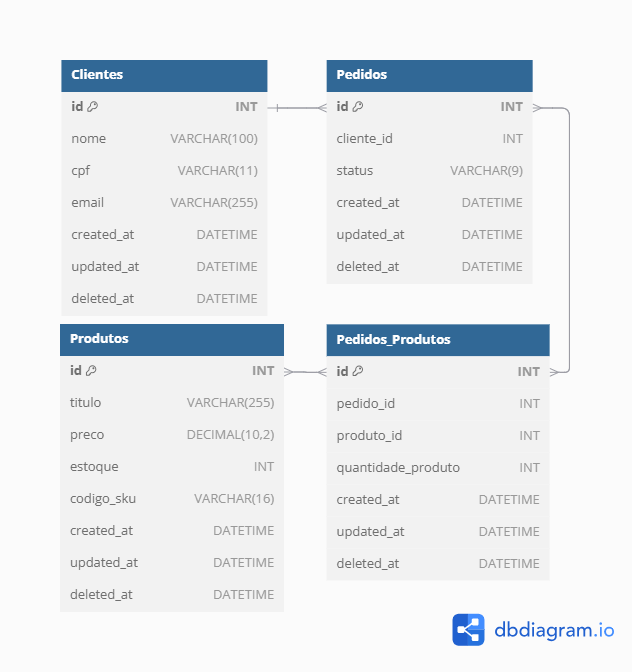
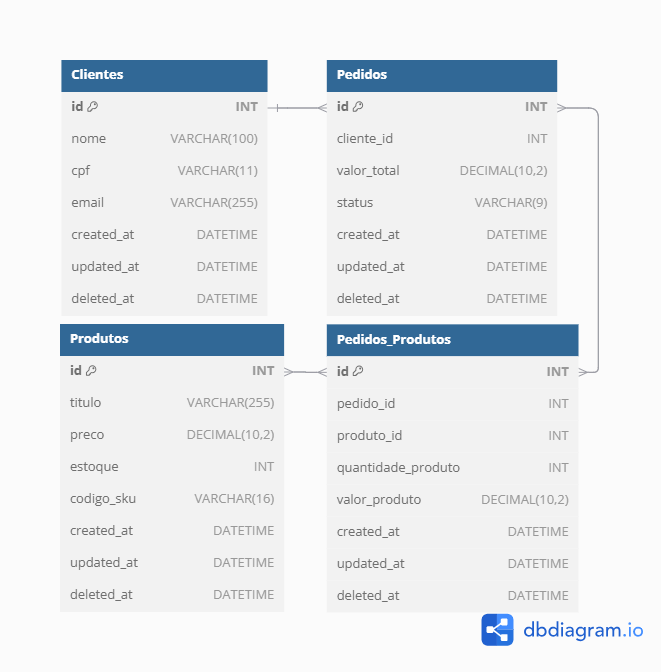
feat: valida o estoque do produto e adiciona valor total ao pedido

diff --git a/app/Http/Controllers/PedidoController.php b/app/Http/Controllers/PedidoController.php
@@ -72,14 +72,45 @@ class PedidoController extends Controller {
 
         $dados = $request->validated();
 
+        // verifica se há estoque suficiente
+        $erroEstoque = $this->verificarEstoqueSuficiente($dados['produtos'], $dados['quantidades']);
+        if ($erroEstoque) {
+            return redirect()->back()->withErrors(['produtos' => $erroEstoque['erro']])->withInput();
+        }
+
+        // cria o pedido
         $pedido = Pedido::create([
             'cliente_id' => $dados['cliente_id'],
-            'status' => $dados['status']
+            'status' => $dados['status'],
+            'valor_total' => 0,
         ]);
 
+        $valorTotal = 0;
         foreach ($dados['produtos'] as $i => $produto_id) {
-            $pedido->produtos()->attach($produto_id, ['quantidade_produto' => $dados['quantidades'][$i]]);
+
+            // calcula o valor total do produto
+            $produto = Produto::find($produto_id);
+            $quantidade = $dados['quantidades'][$i];
+            $valorProduto = $produto->preco * $quantidade;
+
+            // retira a quantidade do estoque
+            $produto->estoque -= $quantidade;
+            $produto->save();
+
+            // adiciona o valor do produto ao valor total
+            $valorTotal+= $valorProduto;
+
+            // adiciona o produto ao pedido
+            $pedido->produtos()->attach(
+                $produto_id, [
+                    'quantidade_produto' => $quantidade,
+                    'valor_produto' => $valorProduto,
+            ]);
         }
+
+        // atualiza o valor total do pedido
+        $pedido->valor_total = $valorTotal;
+        $pedido->save();
 
         return redirect()->route('pedidos.index')->with('sucesso', 'Pedido criado com sucesso!');
     }
@@ -104,16 +135,52 @@ class PedidoController extends Controller {
         $dados = $request->validated();
         $pedido = Pedido::findOrFail($id);
 
+        // devolve o estoque do produto
+        foreach ($pedido->produtos as $produto) {
+
+            $quantidadeAnterior = $produto->pivot->quantidade_produto;
+
+            $produto->estoque += $quantidadeAnterior;
+            $produto->save();
+        }
+
+        // verifica se há estoque suficiente
+        $erroEstoque = $this->verificarEstoqueSuficiente($dados['produtos'], $dados['quantidades']);
+        if ($erroEstoque) {
+            return redirect()->back()->withErrors(['produtos' => $erroEstoque['erro']])->withInput();
+        }
+
         $pedido->update([
             'cliente_id' => $dados['cliente_id'],
             'status' => $dados['status'],
         ]);
 
+        // desanexa os produtos do pedido
         $pedido->produtos()->detach();
 
+        $valorTotal =0;
         foreach ($dados['produtos'] as $i => $produto_id) {
-            $pedido->produtos()->attach($produto_id, ['quantidade_produto' => $dados['quantidades'][$i]]);
+            $produto = Produto::find($produto_id);
+            $quantidade = $dados['quantidades'][$i];
+            $valorProduto = $produto->preco * $quantidade;
+    
+            // retira do estoque a quantidade do produto
+            $produto->estoque -= $quantidade;
+            $produto->save();
+    
+            // adiciona o valor do produto ao valor total
+            $valorTotal += $valorProduto;
+    
+            // adiciona o produto ao pedido
+            $pedido->produtos()->attach($produto_id, [
+                'quantidade_produto' => $quantidade,
+                'valor_produto' => $valorProduto,
+            ]);
         }
+
+        // atualiza o valor total do pedido
+        $pedido->valor_total = $valorTotal;
+        $pedido->save();
 
         return redirect()->route('pedidos.index')->with('sucesso', 'Pedido atualizado com sucesso!');
     }
@@ -122,8 +189,33 @@ class PedidoController extends Controller {
     public function destroy($id): RedirectResponse {
         
         $pedido = Pedido::findOrFail($id);
+
+        // devolve o estoque do produto
+        foreach ($pedido->produtos as $produto) {
+
+            $quantidadeAnterior = $produto->pivot->quantidade_produto;
+
+            $produto->estoque += $quantidadeAnterior;
+            $produto->save();
+        }
+
         $pedido->delete();
 
         return redirect()->route('pedidos.index')->with('sucesso', 'Pedido excluído com sucesso!');
+    }
+
+    private function verificarEstoqueSuficiente(array $produtos, array $quantidades) {
+
+        foreach ($produtos as $i => $produto_id) {
+            
+            $produto = Produto::find($produto_id);
+            $quantidade = $quantidades[$i];
+
+            if ($produto->estoque < $quantidade) {
+                return ['erro' => 'Produto ' . $produto->título . ' não tem estoque suficiente.'];
+            }
+
+            return null;
+        }
     }
 }

diff --git a/resources/views/pedidos/index.blade.php b/resources/views/pedidos/index.blade.php
@@ -80,6 +80,7 @@
             <tr>
                 <th>Código</th>
                 <th>Cliente</th>
+                <th>Valor</th>
                 <th>Status</th>
                 <th>Data</th>
                 <th>Ações</th>
@@ -91,6 +92,7 @@
                 <tr>
                     <td>{{ $pedido->id }}</td>
                     <td><a href="{{ route('clientes.show', $pedido->cliente->id) }}">{{ $pedido->cliente->nome }}</a></td>
+                    <td>{{ $pedido->valor_total }}</td>
                     <td>{{ $pedido->status }}</td>
                     <td>{{ $pedido->created_at }}</td>
                     <td>

diff --git a/resources/views/pedidos/show.blade.php b/resources/views/pedidos/show.blade.php
@@ -9,7 +9,7 @@
     <h3>Produtos:</h3>
     <ul>
         @foreach($pedido->produtos as $produto)
-            <li><a href="{{ route('produtos.show', $produto->id) }}">{{ $produto->titulo }}</a> - Quantidade: {{ $produto->pivot->quantidade_produto }} - R$ {{ number_format($produto->preco, 2, ',', '.') }}</li>
+            <li><a href="{{ route('produtos.show', $produto->id) }}">{{ $produto->titulo }}</a> - Quantidade: {{ $produto->pivot->quantidade_produto }} - R$ {{ number_format($produto->pivot->valor_produto, 2, ',', '.') }}</li>
         @endforeach
     </ul>
 

diff --git a/database/migrations/2025_03_29_141353_create_pedidos_table.php b/database/migrations/2025_03_29_141353_create_pedidos_table.php
@@ -15,6 +15,7 @@ return new class extends Migration {
         Schema::create('pedidos', function (Blueprint $table) use ($statusPedido) {
             $table->id()->autoIncrement();
             $table->foreignId('cliente_id')->constrained('clientes')->onDelete('cascade');
+            $table->decimal('valor_total', 10, 2)->default(0);
             $table->enum('status', $statusPedido)->default('Em Aberto');
             $table->timestamps();
         });

diff --git a/database/migrations/2025_03_29_141422_create_pedidos_produtos_table.php b/database/migrations/2025_03_29_141422_create_pedidos_produtos_table.php
@@ -14,6 +14,7 @@ return new class extends Migration {
             $table->foreignId('pedido_id')->constrained('pedidos')->onDelete('cascade');
             $table->foreignId('produto_id')->constrained('produtos')->onDelete('cascade');
             $table->integer('quantidade_produto');
+            $table->decimal('valor_produto', 10, 2);
             $table->timestamps();
         });
     }
